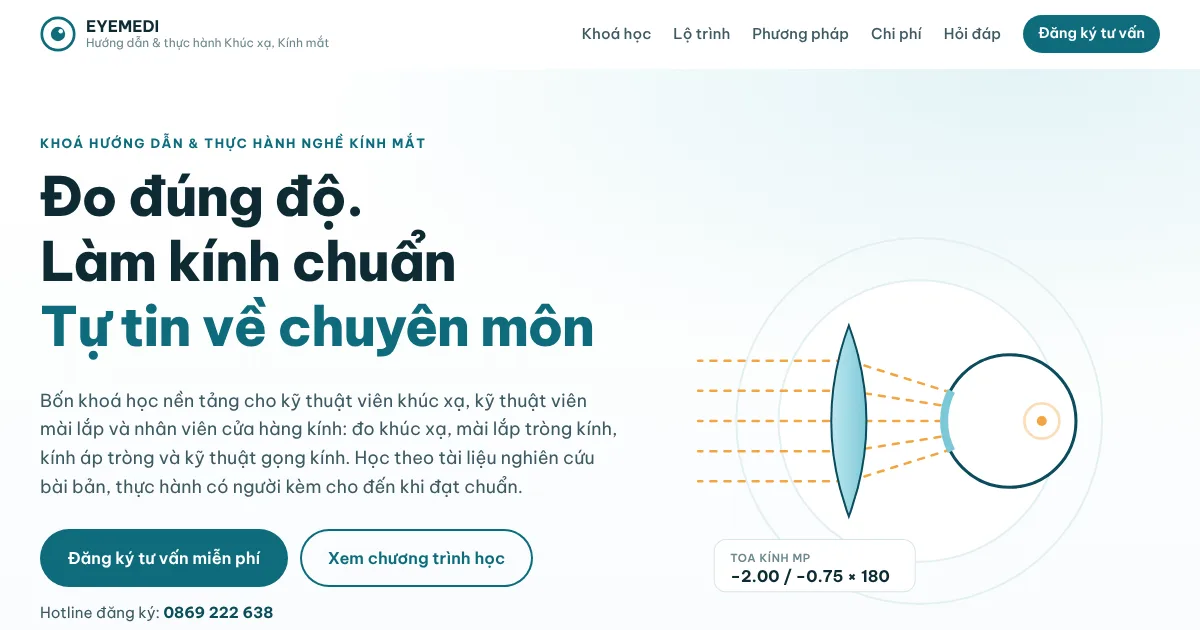
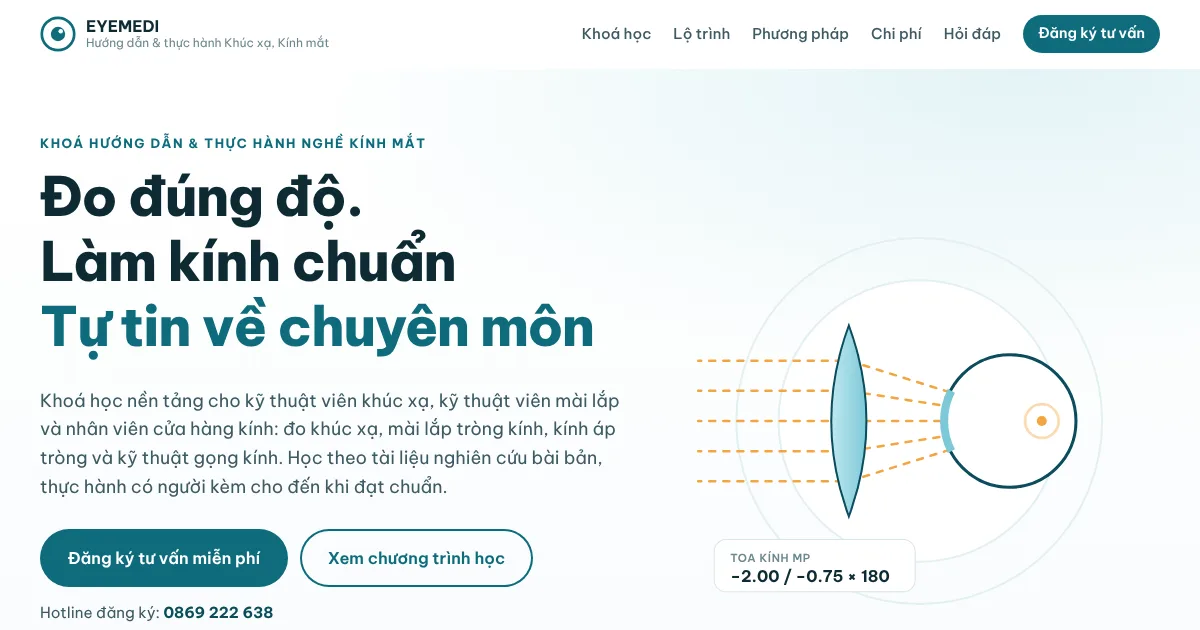
Trang khoá thực hành: sửa đoạn giới thiệu đầu trang
Claude-Session: https://claude.ai/code/session_011QZR97DFoSqjw1YAgQaEiT

Changed region(s): [[0.0308, 0.6032, 0.5242, 0.7841]]

diff --git a/dao-tao-ky-thuat-khuc-xa-mai-lap-kinh.html b/dao-tao-ky-thuat-khuc-xa-mai-lap-kinh.html
@@ -518,7 +518,7 @@ body.dlg-open{overflow:hidden}
     <div class="hero-text">
       <p class="eyebrow">Khoá hướng dẫn &amp; thực hành nghề kính mắt</p>
       <h1>Đo đúng độ. <span class="nw">Làm kính chuẩn</span><br><span>Tự tin về chuyên môn</span></h1>
-      <p class="lead">Bốn khoá học nền tảng cho kỹ thuật viên khúc xạ, kỹ thuật viên mài lắp và nhân viên cửa hàng kính: đo khúc xạ, mài lắp tròng kính, kính áp tròng và kỹ thuật gọng kính. Học theo tài liệu nghiên cứu bài bản, thực hành có người kèm cho đến khi đạt chuẩn.</p>
+      <p class="lead">Khoá học nền tảng cho kỹ thuật viên khúc xạ, kỹ thuật viên mài lắp và nhân viên cửa hàng kính: đo khúc xạ, mài lắp tròng kính, kính áp tròng và kỹ thuật gọng kính. Học theo tài liệu nghiên cứu bài bản, thực hành có người kèm cho đến khi đạt chuẩn.</p>
       <div class="hero-cta">
         <a class="btn btn-lg" href="#dang-ky">Đăng ký tư vấn miễn phí</a>
         <a class="btn btn-ghost btn-lg" href="#khoa-hoc">Xem chương trình học</a>
